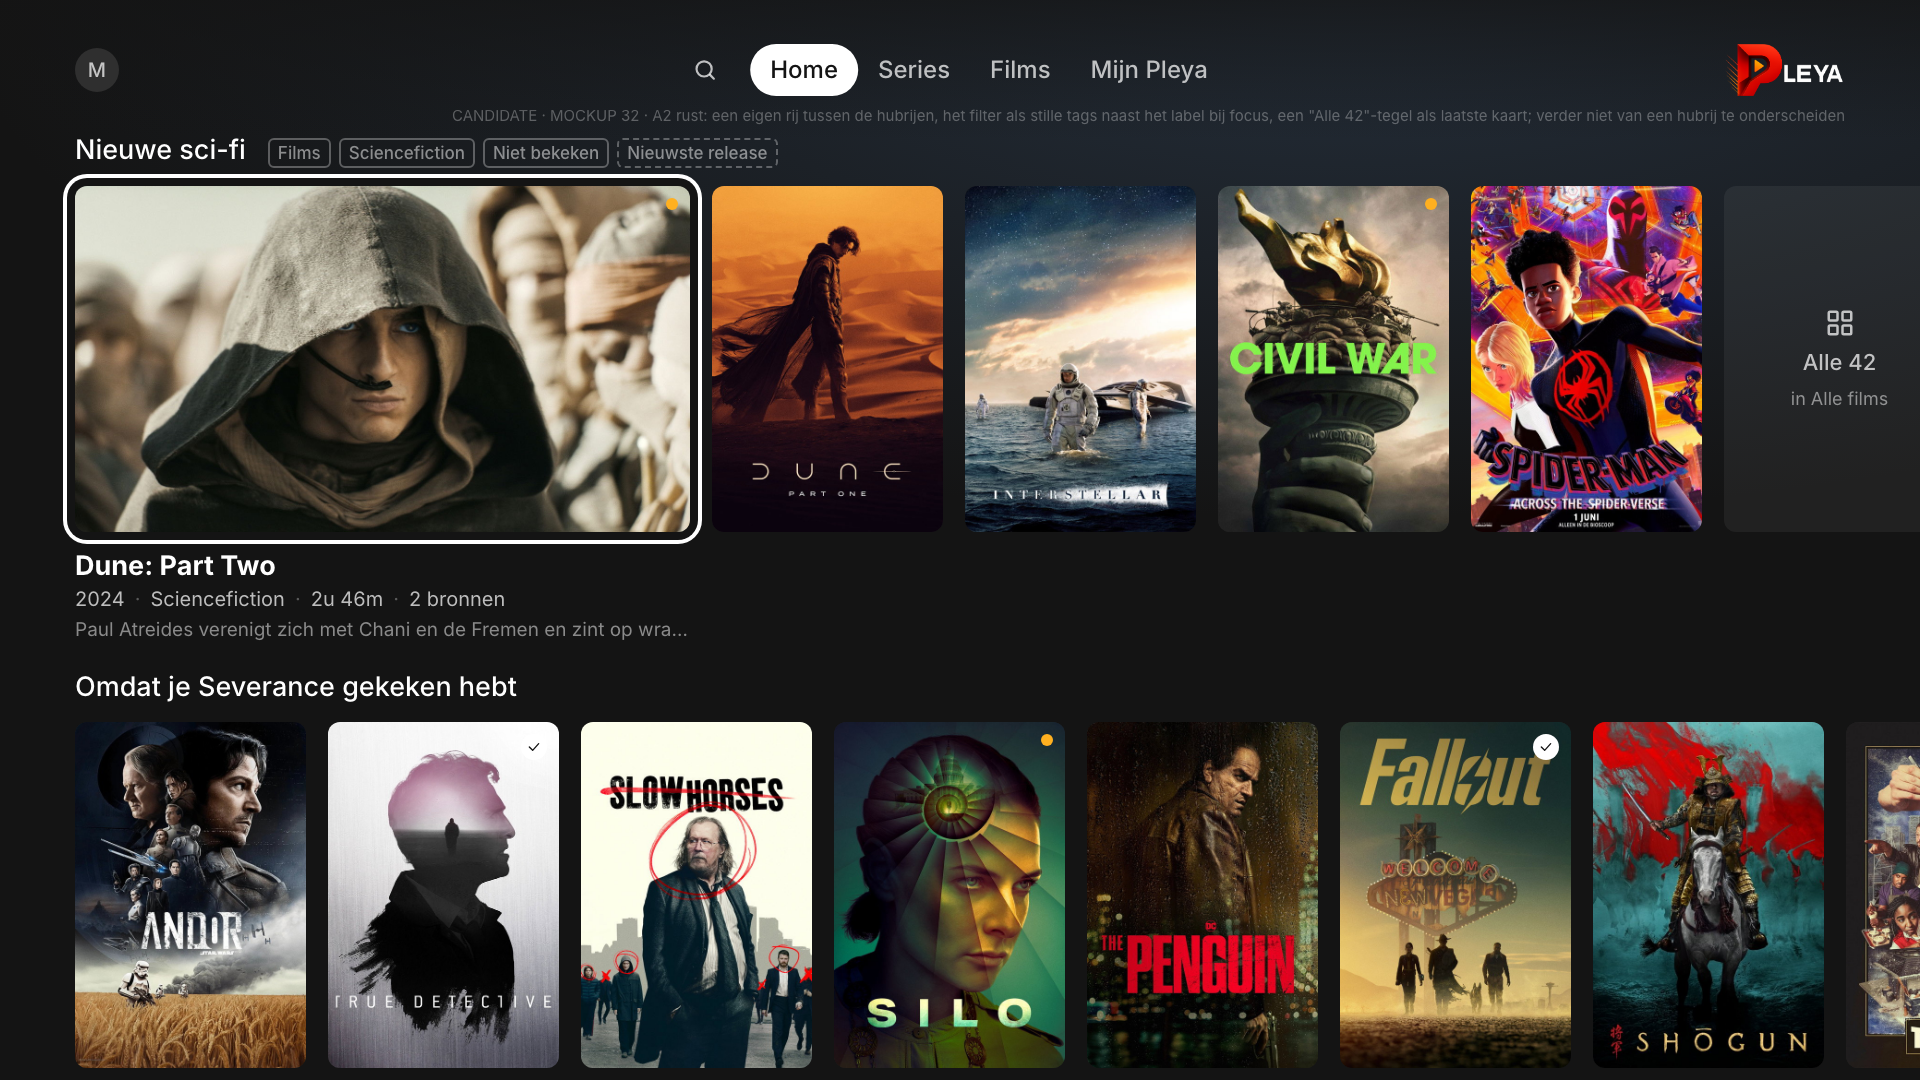
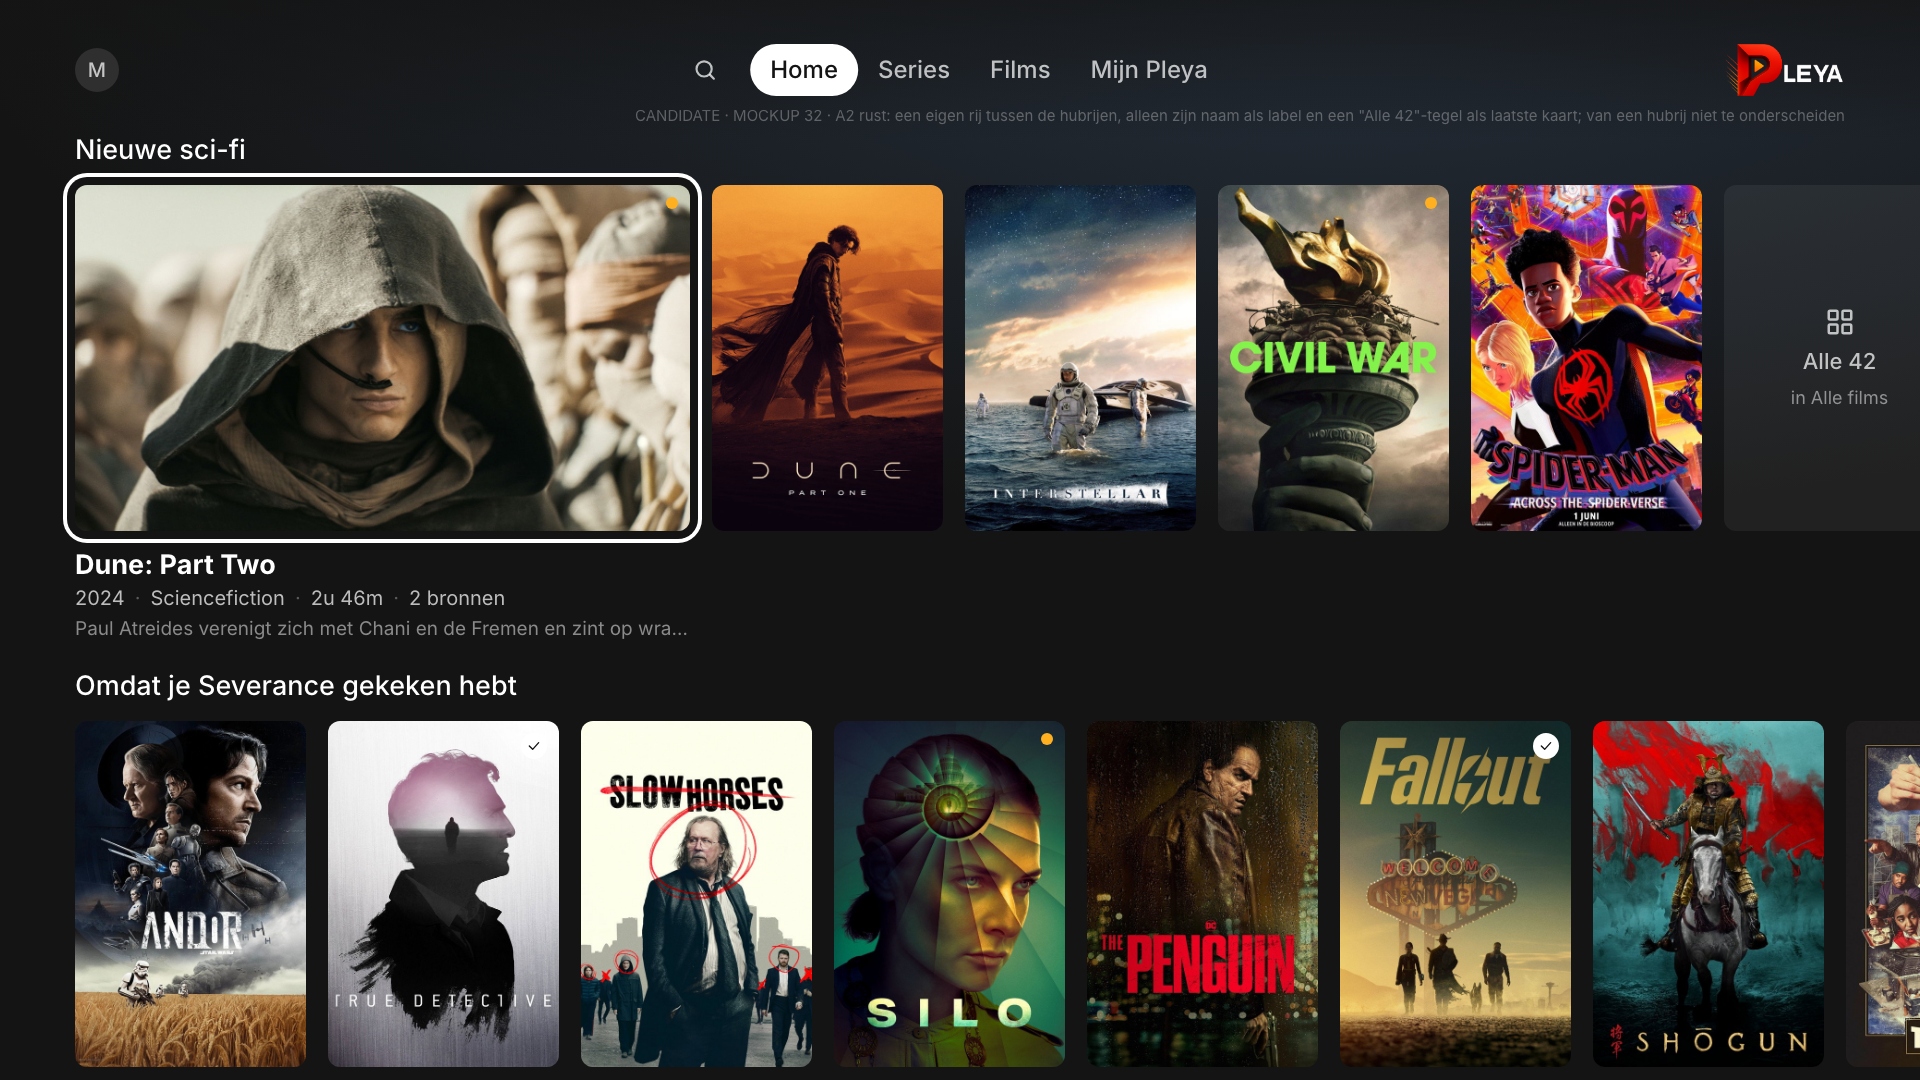
docs(tv): ROW1, de ingang uit de hero en de tags van het label, A1a en A1b op Michels eerste reactie

diff --git a/docs/assets/tvos-unified/src/pages/32-eigen-rails-a1b.html b/docs/assets/tvos-unified/src/pages/32-eigen-rails-a1b.html
@@ -38,39 +38,62 @@
 .rb .c.all small { font-size: 18px; color: var(--ink-3); font-weight: 400; }
 </style>
 <style>
-.htext { position: absolute; left: var(--inset); width: 900px; }
-.htext h1 { font-size: 56px; font-weight: 700; letter-spacing: -.01em; line-height: 1.1; }
-.htext .meta { margin-top: 12px; }
-.htext .syn { margin-top: 12px; font-size: 22px; line-height: 1.35; color: var(--ink-2); }
-.htext .btn-row { margin-top: 26px; }
-.bleed .scrim { background:
-  linear-gradient(90deg, rgba(20,20,20,.92) 0%, rgba(20,20,20,.70) 28%, rgba(20,20,20,.12) 56%, rgba(20,20,20,0) 100%),
-  linear-gradient(180deg, rgba(20,20,20,.66) 0%, rgba(20,20,20,0) 18%, rgba(20,20,20,0) 52%, rgba(20,20,20,.70) 78%, var(--bg) 96%); }
-.htext { top: 579px; }
-.rails { top: 880px; }
-/* ROW1: de ingang naar het bewerken staat rechts op de hoogte van de CTA-rij, als gewone knop in de focusrij van de hero */
-.edit-entry { position: absolute; right: var(--inset); top: 787px; }
+.bleed img { transform: translateY(-469px); opacity: .34; }
+.bleed .scrim { background: linear-gradient(180deg, rgba(20,20,20,.72) 0%, rgba(20,20,20,.20) 12%, rgba(20,20,20,.45) 26%, var(--bg) 40%); }
+.rails { top: 132px; opacity: .35; }
+.sheet { width: 760px; padding: 0; overflow: hidden; }
+.sheet .head { display: flex; gap: 22px; align-items: center; padding: 28px 32px 22px; border-bottom: 1px solid var(--hair); }
+.sheet .head img { width: 68px; height: 102px; border-radius: 8px; object-fit: cover; }
+.sheet .head .t { font-size: 28px; font-weight: 700; }
+.sheet .head .s { font-size: 20px; color: var(--ink-3); margin-top: 4px; }
+.opts { padding: 14px 16px 16px; display: flex; flex-direction: column; gap: 4px; }
+.opt { display: flex; align-items: center; gap: 20px; height: 66px; padding: 0 18px; border-radius: 12px; font-size: 23px; }
+.opt .ic { width: 26px; height: 26px; color: var(--ink-2); }
+.opt .r { margin-left: auto; font-size: 19px; color: var(--ink-3); }
+.opt.focus { background: var(--elevated); box-shadow: 0 0 0 3px var(--surface), 0 0 0 6px var(--ink); }
+.opt.sep { height: 1px; background: var(--hair); margin: 6px 18px; padding: 0; }
 </style>
 <div class="bleed"><img src="{{art:dune2-backdrop}}"><div class="scrim"></div></div>
-{{nav:Home}}
-<div class="htext">
-  <h1>Dune: Part Two</h1>
-  <div class="meta">Film<span class="sep">·</span>Sciencefiction<span class="sep">·</span>2024<span class="sep">·</span>2u 46m</div>
-  <div class="syn">Paul Atreides verenigt zich met Chani en de Fremen en zint op wraak op de samenzweerders die zijn familie vernietigden.</div>
-  <div class="btn-row"><div class="btn primary focus">{{icon:play}} Afspelen</div><div class="btn">{{icon:info}} Meer info</div></div>
-</div>
-<div class="edit-entry"><div class="btn">{{icon:edit}} Home aanpassen</div></div>
+{{nav:Home|dim}}
 <div class="rails">
   <div class="rail-label">Verder kijken</div>
   <div class="rb">
-    <div class="c "><img src="{{art:eeaao-poster}}"><div class="prog"><i style="width:70%"></i></div></div>
+    <div class="c w"><img src="{{art:eeaao-poster}}"><div class="prog"><i style="width:70%"></i></div></div>
     <div class="c "><img src="{{art:barbie-poster}}"><div class="prog"><i style="width:30%"></i></div></div>
     <div class="c "><img src="{{art:penguin-poster}}"><span class="src">2 bronnen</span><div class="prog"><i style="width:55%"></i></div></div>
     <div class="c "><img src="{{art:poorthings-poster}}"><div class="prog"><i style="width:12%"></i></div></div>
     <div class="c "><img src="{{art:conclave-poster}}"><div class="prog"><i style="width:80%"></i></div></div>
     <div class="c "><img src="{{art:wonka-poster}}"><div class="prog"><i style="width:40%"></i></div></div>
-    <div class="c "><img src="{{art:anora-poster}}"><div class="prog"><i style="width:25%"></i></div></div>
-    <div class="c "><img src="{{art:holdovers-poster}}"><div class="prog"><i style="width:60%"></i></div></div>
+  </div>
+  <div class="cap"><div class="t">Everything Everywhere All at Once</div><div class="m">42 min resterend<span class="sep">·</span>2022<span class="sep">·</span>Avontuur<span class="sep">·</span>2u 19m</div><div class="d">Een uitgebluste wasserette-eigenaar wordt meegesleurd in een strijd door het multiversum.</div></div>
+  <div class="rail-label next">Nieuwe sci-fi</div>
+  <div class="rb">
+    <div class="c "><img src="{{art:dune2-poster}}"><span class="new"></span></div>
+    <div class="c "><img src="{{art:dune1-poster}}"></div>
+    <div class="c "><img src="{{art:interstellar-poster}}"></div>
+    <div class="c "><img src="{{art:civilwar-poster}}"><span class="new"></span></div>
+    <div class="c "><img src="{{art:spiderverse-poster}}"></div>
+    <div class="c "><img src="{{art:substance-poster}}"></div>
+    <div class="c "><img src="{{art:nosferatu-poster}}"></div>
+    <div class="c all">{{icon:grid}}Alle 42<small>in Alle films</small></div>
   </div>
 </div>
-<div class="note">CANDIDATE · MOCKUP 32 · A1 de ingang: "Home aanpassen" rechts op de hoogte van de CTA-rij, in dezelfde focusrij als Afspelen en Meer info; de landing van 30 A1 is verder ongewijzigd</div>
+<div class="scrim" style="background:rgba(20,20,20,.5)"></div>
+<div class="modal sheet">
+  <div class="head"><img src="{{art:eeaao-poster}}"><div><div class="t">Everything Everywhere All at Once</div><div class="s">2022 · Avontuur · 2u 19m · 2 bronnen · 1u 37m bekeken</div></div></div>
+  <div class="opts">
+    <div class="opt">{{icon:play}} Hervatten <span class="r">nog 42 min</span></div>
+    <div class="opt">{{icon:refresh}} Vanaf het begin</div>
+    <div class="opt">{{icon:info}} Meer info</div>
+    <div class="opt sep"></div>
+    <div class="opt">{{icon:bookmark}} Aan kijklijst toevoegen</div>
+    <div class="opt">{{icon:check}} Markeer als gekeken</div>
+    <div class="opt">{{icon:eyeoff}} Verwijder uit Verder kijken</div>
+    <div class="opt sep"></div>
+    <div class="opt">{{icon:swap}} Bron wijzigen <span class="r">NAS · Films 4K</span></div>
+    <div class="opt sep"></div>
+    <div class="opt focus">{{icon:edit}} Home aanpassen <span class="r">rijen en volgorde</span></div>
+  </div>
+  <div style="padding:0 32px 26px;display:flex;justify-content:flex-end"><div class="btn">Sluiten</div></div>
+</div>
+<div class="note">CANDIDATE · MOCKUP 32 · A1b de ingang in het contextmenu: lang indrukken op elke kaart van Home geeft het menu van 12 een laatste regel "Home aanpassen"; één druk vanaf elke plek, nul chrome op de pagina</div>

diff --git a/docs/assets/tvos-unified/src/pages/32-eigen-rails-a1a.html b/docs/assets/tvos-unified/src/pages/32-eigen-rails-a1a.html
@@ -39,30 +39,26 @@
 </style>
 <style>
 .rails { top: 132px; }
+.foot { margin: 34px var(--inset) 0 0; height: 96px; border: 2px dashed var(--hair); border-radius: var(--r-tile); display: flex; align-items: center; gap: 22px; padding: 0 28px; }
+.foot .ic { width: 28px; height: 28px; color: var(--ink-2); }
+.foot .t { font-size: 24px; font-weight: 500; }
+.foot .s { font-size: 19px; color: var(--ink-3); margin-top: 2px; }
+.foot.focus { background: var(--elevated); border-color: transparent; box-shadow: 0 0 0 var(--ring-gap) var(--bg), 0 0 0 calc(var(--ring-gap) + var(--ring)) var(--ink); }
 </style>
-<div class="amb cool"></div><div class="topfade"></div>
+<div class="amb"></div><div class="topfade"></div>
 {{nav:Home}}
 <div class="rails">
-  <div class="rail-label">Nieuwe sci-fi</div>
+  <div class="rail-label">Aanbevolen voor jou</div>
   <div class="rb">
-    <div class="c w focus"><img src="{{art:dune2-backdrop}}"><span class="new"></span></div>
-    <div class="c "><img src="{{art:dune1-poster}}"></div>
-    <div class="c "><img src="{{art:interstellar-poster}}"></div>
-    <div class="c "><img src="{{art:civilwar-poster}}"><span class="new"></span></div>
-    <div class="c "><img src="{{art:spiderverse-poster}}"></div>
-    <div class="c all">{{icon:grid}}Alle 42<small>in Alle films</small></div>
+    <div class="c "><img src="{{art:lalaland-poster}}"></div>
+    <div class="c "><img src="{{art:grandbudapest-poster}}"><span class="seen">{{icon:check}}</span></div>
+    <div class="c "><img src="{{art:pastlives-poster}}"></div>
+    <div class="c "><img src="{{art:wonka-poster}}"></div>
+    <div class="c "><img src="{{art:barbie-poster}}"></div>
+    <div class="c "><img src="{{art:holdovers-poster}}"></div>
+    <div class="c "><img src="{{art:anora-poster}}"></div>
+    <div class="c "><img src="{{art:oppenheimer-poster}}"><span class="seen">{{icon:check}}</span></div>
   </div>
-  <div class="cap"><div class="t">Dune: Part Two</div><div class="m">2024<span class="sep">·</span>Sciencefiction<span class="sep">·</span>2u 46m<span class="sep">·</span>2 bronnen</div><div class="d">Paul Atreides verenigt zich met Chani en de Fremen en zint op wraak op de samenzweerders die zijn familie vernietigden.</div></div>
-  <div class="rail-label next">Omdat je Severance gekeken hebt</div>
-  <div class="rb">
-    <div class="c "><img src="{{art:andor-poster}}"></div>
-    <div class="c "><img src="{{art:truedetective-poster}}"><span class="seen">{{icon:check}}</span></div>
-    <div class="c "><img src="{{art:slowhorses-poster}}"></div>
-    <div class="c "><img src="{{art:silo-poster}}"><span class="new"></span></div>
-    <div class="c "><img src="{{art:penguin-poster}}"></div>
-    <div class="c "><img src="{{art:fallout-poster}}"><span class="seen">{{icon:check}}</span></div>
-    <div class="c "><img src="{{art:shogun-poster}}"></div>
-    <div class="c "><img src="{{art:thebear-poster}}"></div>
-  </div>
+  <div class="foot focus">{{icon:edit}}<div><div class="t">Home aanpassen</div><div class="s">Rijen verplaatsen of verbergen, een eigen rij maken uit een filter</div></div></div>
 </div>
-<div class="note">CANDIDATE · MOCKUP 32 · A2 rust: een eigen rij tussen de hubrijen, alleen zijn naam als label en een "Alle 42"-tegel als laatste kaart; van een hubrij niet te onderscheiden</div>
+<div class="note">CANDIDATE · MOCKUP 32 · A1a de ingang als voetregel: één regel over de volle breedte onder de laatste rij, één DOWN vanaf die rij zonder mikken; de hero en zijn slides blijven onaangeraakt</div>

diff --git a/docs/tvos-fysieke-correctieronde.md b/docs/tvos-fysieke-correctieronde.md
@@ -132,7 +132,7 @@ code-parity-audit die daaronder ligt. De voortgang per heringericht oppervlak st
 | NAVSEL1 | `tvos.nav.destination-select` sprak de app op twee punten tegen: het verwachtte Films na één RIGHT vanaf Home terwijl Series daar staat, en het eiste een Select om van bestemming te wisselen terwijl focus dat sinds 2 september zelf doet. Gedraaid, rood op de eerste, en verwijderd; `tvos.nav.focus-switches-destination` dekt het en is groen | FIXED | `17d47592` |
 | HERO5 | `test/screens/discover_screen_tv_hero_test.dart` stond rood op `main`, acht tests, als nasleep van HERO3: het 90-dagenvenster kreeg een clock-seam voor tests, maar dit bestand gebruikte hem niet en las dus de wandklok. De harness pint de klok nu op 2026-06-01 en `_movie` geeft een dateloze fixture een releasedatum, want DEC-097 zet een film zonder datum per contract buiten de hero. Fixture-datums zijn niet verschoven. Negatieve controle: de seam een jaar vooruit reproduceert de acht rode tests | FIXED | `7ade2bc9` |
 | RAIL1 | `test/widgets/tv_discovery_rail_test.dart` stond rood op `main`, vijf tests. Geen defect: twee toetsten de afspraak die LAND2 verving, twee lazen "welke tegel is actief" af aan een blok dat sindsdien focusgebonden is, en de vijfde zocht met een exacte string naar een label dat samengevoegd in de node van de kop staat. Herschreven naar wat er nu geldt, met een sabotagecontrole op de focusgate | FIXED | `9179ac2e` |
-| ROW1 | Eigen rails op Home, samengesteld door de gebruiker: je legt een filter vast en de inhoud daarvan wordt een rij. Bedienbaar op Home zelf, niet weggestopt in Instellingen, en de volgorde is daar ook te wijzigen. De hero en Verder kijken blijven statisch en zijn niet te verplaatsen. Gevraagd door Michel op 5 september 2026. Mockup 32 (A1, A2, B, C1 tot en met C4) staat klaar op zijn functieschets van dezelfde dag | OPEN, mockup 32 ter beoordeling | n.v.t. |
+| ROW1 | Eigen rails op Home, samengesteld door de gebruiker: je legt een filter vast en de inhoud daarvan wordt een rij. Bedienbaar op Home zelf, niet weggestopt in Instellingen, en de volgorde is daar ook te wijzigen. De hero en Verder kijken blijven statisch en zijn niet te verplaatsen. Gevraagd door Michel op 5 september 2026. Mockup 32 (A1a, A1b, A2, B, C1 tot en met C4) staat klaar op zijn functieschets van dezelfde dag; de ingang en de tags zijn op zijn eerste reactie hertekend | OPEN, mockup 32 ter beoordeling | n.v.t. |
 
 ## Wat er per item bekend is
 
@@ -2946,17 +2946,28 @@ tokens van de set.
 bron in `src/pages/32-eigen-rails-*.html`). Zeven standen, in de taal van 30 (DEC-095) en 28 D2
 (DEC-093):
 
-- **A1, de ingang.** De landing van 30 A1, met rechts op de hoogte van de CTA-rij de knop "Home
-  aanpassen". Hij staat in dezelfde focusrij als Afspelen en Meer info: RIGHT vanaf Meer info landt
-  erop, RIGHT daarvandaan wisselt de slide. Dat is een wijziging van 7.3, waar RIGHT vanaf Meer
-  info nu de slide wisselt; de knop schuift daar één positie tussen. Wat A1 beslist: de ingang zit
-  op Home en niet onder Instellingen, en hij is met twee drukken vanaf de rustfocus bereikbaar.
+- **A1, de ingang, hertekend.** De eerste versie zette "Home aanpassen" rechts op de hoogte van
+  de CTA-rij van de hero, bereikbaar met RIGHT vanaf Meer info. Michel, letterlijk: "de knop voor
+  home aanpassen is niet goed genoeg gepositioneerd voor tvos want je kunt hier niet hoed komen op
+  tvos en gaat wss ten kostem vam het kunnen bewegen door de hero rails". Klopt: RIGHT vanaf Meer
+  info is in 7.3 de slidewissel, en een knop aan de rechterrand van de hero kost die beweging. De
+  hero blijft dus zoals hij is, en de ingang staat nu in twee varianten die allebei zonder
+  horizontaal mikken te bereiken zijn.
+  - **A1a, de voetregel.** Eén regel over de volle breedte onder de laatste rij, in de gestippelde
+    tegeltaal van "Nieuwe rij" in B: icoon, "Home aanpassen" en een subregel. Eén DOWN vanaf de
+    laatste rij, geen horizontale beweging, altijd op dezelfde plek. Nadeel: wie acht rijen heeft
+    moet er acht voorbij.
+  - **A1b, het contextmenu.** Lang indrukken op elke kaart van Home geeft het menu van mockup 12
+    een laatste regel "Home aanpassen", achter een scheidingslijn onder Bron wijzigen. Eén druk
+    vanaf elke plek op Home, nul chrome op de pagina. Nadeel: niet zichtbaar tot je het menu kent.
+  Mijn voorstel is allebei: A1a als de zichtbare plek, A1b als de korte weg. Ze sluiten elkaar niet
+  uit en raken 7.3 geen van beide.
 - **A2, rust.** Dieper op Home, de geometrie van 30 C, met een eigen rij "Nieuwe sci-fi" tussen de
-  hubrijen. Bij focus staan de filterkeuzes als stille tags naast het label, in de tagtaal van 28
-  D1 met de sortering gestippeld; zonder focus staan ze er niet. De laatste kaart is een tegel "Alle
-  42, in Alle films" die de catalogus met ditzelfde filter opent, de tegelvorm die DEC-064 al
-  toestaat. Wat A2 beslist: een eigen rij is in rust van een hubrij niet te onderscheiden, en het
-  filter is zichtbaar zonder chrome toe te voegen.
+  hubrijen. Alleen zijn naam als label; de eerste versie zette de filterkeuzes als tags naast het
+  label en Michel schrapte die: "Actieve filters hoeven niet weergeven te worden boven de rails".
+  De laatste kaart is een tegel "Alle 42, in Alle films" die de catalogus met ditzelfde filter
+  opent, de tegelvorm die DEC-064 al toestaat. Wat A2 beslist: een eigen rij is in rust van een
+  hubrij niet te onderscheiden; wat erin zit lees je in B of in de catalogus.
 - **B, bewerkmodus.** Eén paneel over de gedimde Home, 1560 breed, met elke rij als regel: icoon,
   vier miniposters, naam met een subregel (bij een eigen rij het filter en de teller, bij een hub
   de servers), en rechts de acties. Uitgelicht en Verder kijken staan bovenaan met een slot en het
@@ -2992,9 +3003,9 @@ orderlijst van `HomeLayoutProvider`; een rij-id voor zo'n object dat niet botst 
 volledige paging van hoofdstuk 12 te draaien. De teller volgt 10.7: pas exact als alle bronnen
 uitgeput zijn, anders "42 geladen".
 
-Open voor Michel: akkoord op A1 tot en met C4, en twee keuzes erin. De plek van de ingang (A1,
-met de 7.3-wijziging) en drie stappen in plaats van vier (C2). Daarna een DEC, de aanpassing van
-7.3, 9.1 en 17.5, en de bouwronde met een negatieve controle op `TvContentFeed`: een widgettest die
+Open voor Michel: akkoord op A1a tot en met C4, en twee keuzes erin. De ingang (A1a, A1b of
+allebei) en drie stappen in plaats van vier (C2). Daarna een DEC, de aanpassing van 9.1, 17.5 en
+23 (het contextmenu krijgt een paginabrede actie), en de bouwronde met een negatieve controle op `TvContentFeed`: een widgettest die
 een eigen rij uit een bewaard filter tussen de hubrijen eist, rood op de huidige code.
 
 ### RAIL1, het fase-6 railcontract is bij een verhuizing achtergebleven
